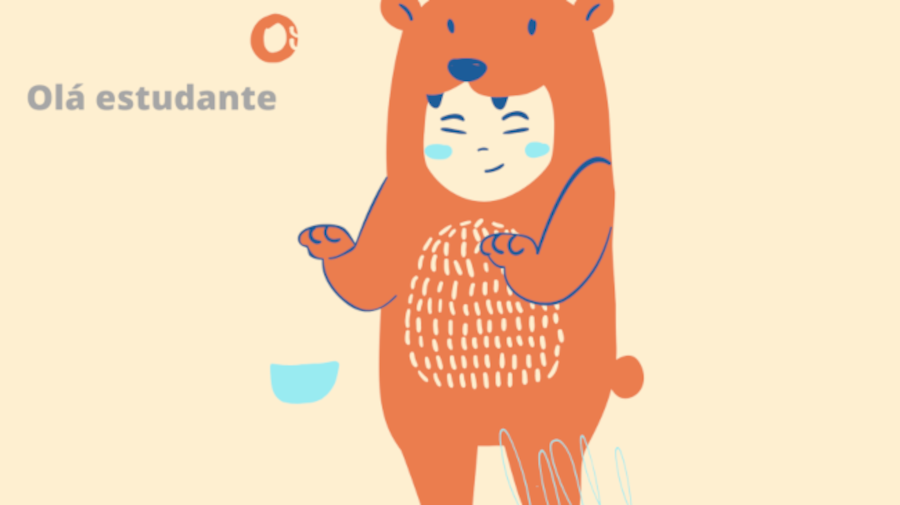
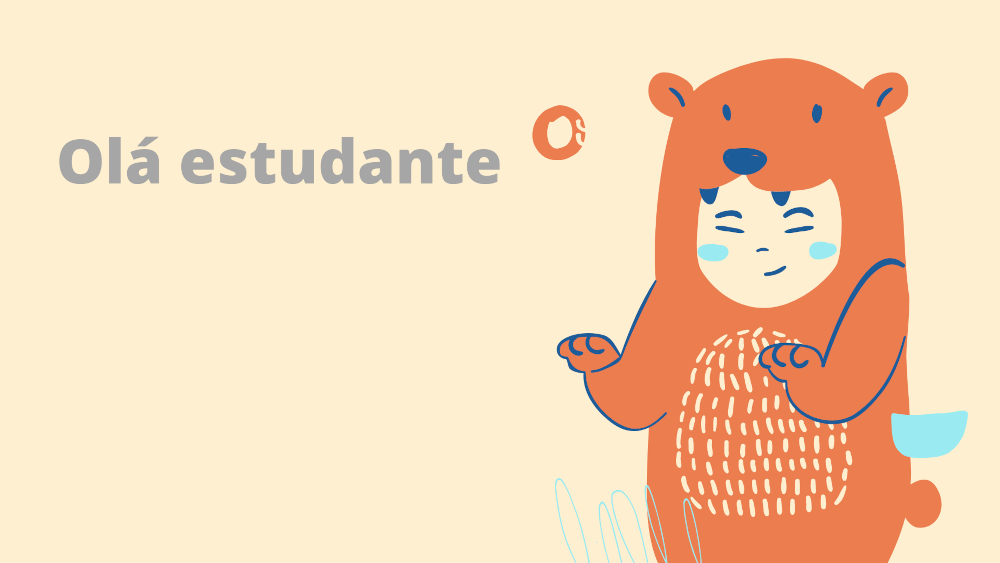
update index.html

diff --git a/style.css b/style.css
@@ -262,3 +262,59 @@ summary{
     text-align: center;
     height: 40px;
 }
+
+/* MEDIAS QUERIES */
+    /* Mobile */
+    /* Fim - Mobile */
+
+    /* Tablet */
+    @media (min-width: 768px) and (max-width: 1000px){
+        .cabecalho{
+            display: none;
+        }
+        /* Cabecalho logo / login*/
+        .secao_cabecalho-tablet{
+            display: flex;
+            justify-content: space-around;
+            background-color: #0085FF;
+            height: 80px;
+        }
+        /* Cabecalho navbar */
+        .cabecalho_menu-items{
+            background-color: #a52a2a;
+            width: 100%;
+            height: 40px;
+            display: flex;
+            align-items: center;
+            justify-content: center;
+        }
+        .cabecalho_menu-lista{
+            display: flex;
+        }
+        .cabecalho_menu-items--lista{
+            display: flex;
+            padding-right: 30px;
+        }
+        .cabecalho_menu-items--lista a{
+            color: #fff;
+            font-size: 1.2rem;
+        }
+        .cabecalho_menu-items--lista a:hover{
+            transform: scale(1.1);
+        }
+        /* Conteudo apresentação */
+        .conteudo_apresentacao{
+            background-image: url(imagens/imagens-de-fundo/imagem-apresentação-m.png);
+            background-repeat: no-repeat;
+            height: 550px;
+            width: 100%;
+        }
+        .paragrafo_apresentacao{
+            color: #aaa;
+            font-size: 1.5rem;
+            position: absolute;
+            transform: translateY(220px) translateX(80px);
+            width: 450px;
+        }
+    }
+    /* Fim - Tablet */

diff --git a/index.html b/index.html
@@ -25,7 +25,33 @@
     <!-- Código para celular -->
     <!-- Código para celular -->
 
-    <!-- codigo para desktop -->
+    <!-- Código para tablet -->
+    <header class="cabecalho_tablet">
+        <div class="secao_cabecalho-tablet">
+            <div class="cabecalho_tablet-logo">
+                <img src="imagens/logo/logo-historiando-principal.png" alt="logo do site historizando" width="180px" height="60px">
+            </div>
+            <div class="cabecalho_tablet-login">
+                <label for="btnSingIN">
+                    <input class="btnSingIN" type="submit" value="Sing In" id="btnSingIN">
+                </label>
+                <label for="btnSingUP">
+                    <input class="btnSignUP" type="submit" value="Sing Up" id="btnSingUP">
+                </label>
+            </div>
+        </div>
+        <div class="cabecalho_menu-items">
+            <ul class="cabecalho_menu-lista">
+                <li class="cabecalho_menu-items--lista"><a class="cabecalho_menu-items--lista a" href="#">Sobre</a></li> 
+                <li class="cabecalho_menu-items--lista"><a class="cabecalho_menu-items--lista a" href="#conteudos">Conteúdos</a></li>  
+                <li class="cabecalho_menu-items--lista"><a class="cabecalho_menu-items--lista a" href="#">Questões</a></li> 
+                <li class="cabecalho_menu-items--lista"><a class="cabecalho_menu-items--lista a" href="#">Contato</a></li>
+            </ul>
+        </div>
+    </header>
+    <!-- Código para tablet -->
+
+    <!-- Código para desktop -->
     <!-- Cabeçalho -->
     <header class="cabecalho">
         <!-- Seção Cabeçalho -->
